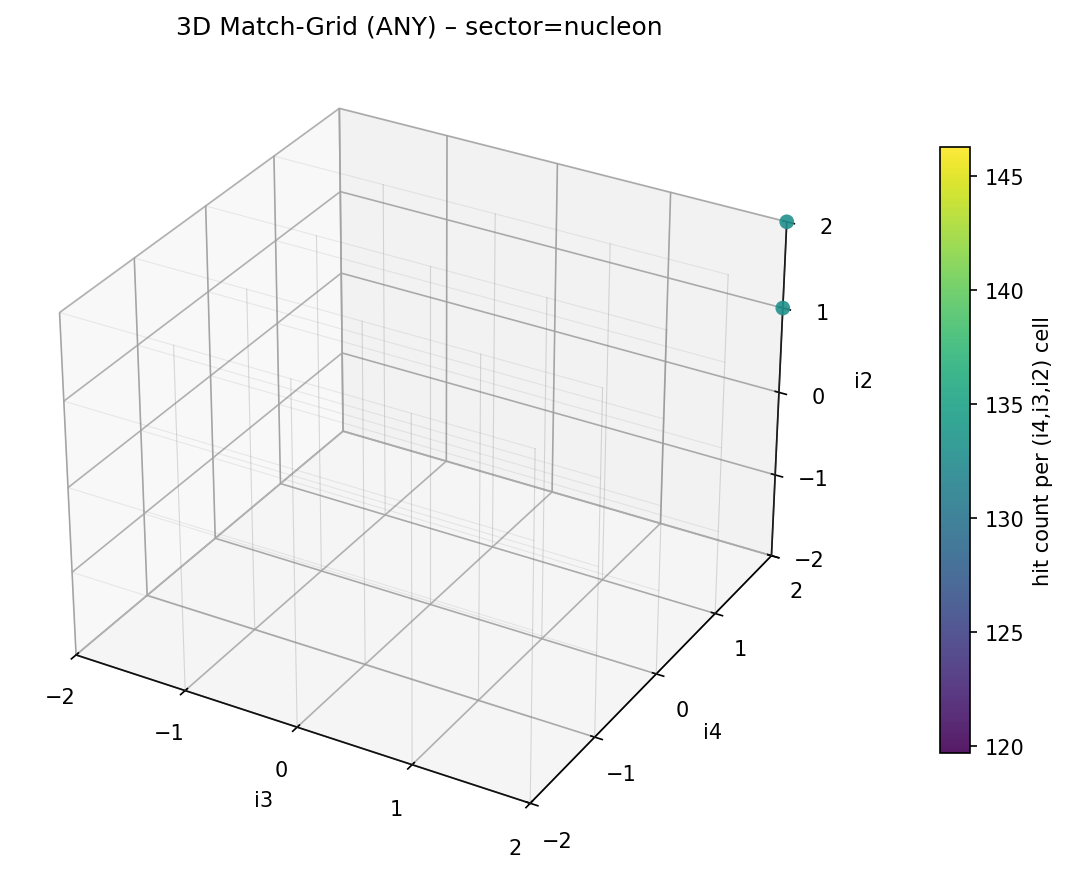
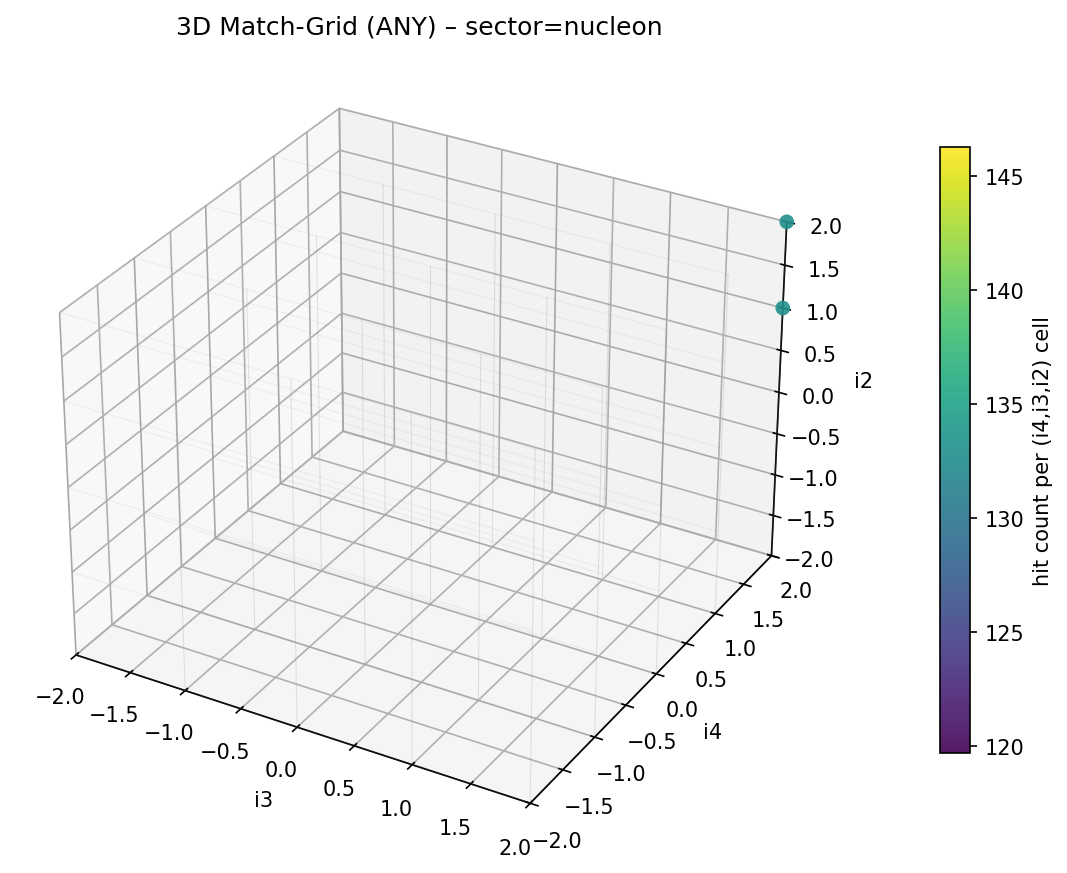
add more grid plots

diff --git a/src/polynome2pi/scan/plotting.py b/src/polynome2pi/scan/plotting.py
@@ -108,9 +108,6 @@ def plot_match_grid(
     # reduce 3D -> 2D by summing over i2
     grid2 = grid3.sum(axis=2)  # shape (n_i4, n_i3)
 
-    i4_vals = outputs.grid_i4_values
-    i3_vals = outputs.grid_i3_values
-
     fig = plt.figure()
     ax = plt.gca()
 
@@ -124,12 +121,6 @@ def plot_match_grid(
     ax.set_title(title)
     ax.set_xlabel("i3")
     ax.set_ylabel("i4")
-
-    ax.set_xticks(range(len(i3_vals)))
-    ax.set_xticklabels(i3_vals)
-
-    ax.set_yticks(range(len(i4_vals)))
-    ax.set_yticklabels(i4_vals)
 
     cbar = plt.colorbar(im, ax=ax)
     cbar.set_label("hit count (summed over i2)")
@@ -187,8 +178,6 @@ def plot_match_grid_3d_scatter(
         fig.savefig(path, dpi=150, bbox_inches="tight")
         plt.close(fig)
         return
-    
-    
 
     gi4_idx, gi3_idx, gi2_idx = np.where(mask)
     counts = grid3[gi4_idx, gi3_idx, gi2_idx].astype(float)
@@ -209,43 +198,7 @@ def plot_match_grid_3d_scatter(
     fig = plt.figure()
     ax = fig.add_subplot(111, projection="3d")
     
-    # Force ticks exactly on scanned integer grid values
-    ax.set_xticks(outputs.grid_i3_values)
-    ax.set_yticks(outputs.grid_i4_values)
-    ax.set_zticks(outputs.grid_i2_values)
-
-    ax.set_xlabel("i3")
-    ax.set_ylabel("i4")
-    ax.set_zlabel("i2")
-    
-        # axis limits exactly to scanned grid
-    ax.set_xlim(
-        min(outputs.grid_i3_values),
-        max(outputs.grid_i3_values),
-    )
-    ax.set_ylim(
-        min(outputs.grid_i4_values),
-        max(outputs.grid_i4_values),
-    )
-    ax.set_zlim(
-        min(outputs.grid_i2_values),
-        max(outputs.grid_i2_values),
-    )
-
-    # optional: force integer ticks
-    ax.set_xticks(outputs.grid_i3_values)
-    ax.set_yticks(outputs.grid_i4_values)
-    ax.set_zticks(outputs.grid_i2_values)
-
-    # ensure grid is visible
-    ax.grid(True)
-    
-    _draw_const_planes(
-    ax,
-    i4_vals=outputs.grid_i4_values,
-    i3_vals=outputs.grid_i3_values,
-    i2_vals=outputs.grid_i2_values,
-)
+    _draw_const_planes(ax, i4_vals, i3_vals, i2_vals, alpha=0.1, lw=0.5)
 
     sc = ax.scatter(
         x_i3,
@@ -265,9 +218,10 @@ def plot_match_grid_3d_scatter(
     ax.set_zlabel("i2")
 
     # optional: make ticks less crazy (only show actual scanned values)
-    ax.set_xticks(list(outputs.grid_i3_values))
-    ax.set_yticks(list(outputs.grid_i4_values))
-    ax.set_zticks(list(outputs.grid_i2_values))
+    ax.set_xlim(min(outputs.grid_i3_values), max(outputs.grid_i3_values))
+    ax.set_ylim(min(outputs.grid_i4_values), max(outputs.grid_i4_values))
+    ax.set_zlim(min(outputs.grid_i2_values), max(outputs.grid_i2_values))
+
 
     cbar = fig.colorbar(sc, ax=ax, shrink=0.75, pad=0.1)
     cbar.set_label("hit count per (i4,i3,i2) cell")
@@ -276,8 +230,7 @@ def plot_match_grid_3d_scatter(
     path.parent.mkdir(parents=True, exist_ok=True)
     fig.savefig(path, dpi=150, bbox_inches="tight")
     plt.close(fig)
-    
-    
+
 def _draw_const_planes(
     ax,
     i4_vals,
